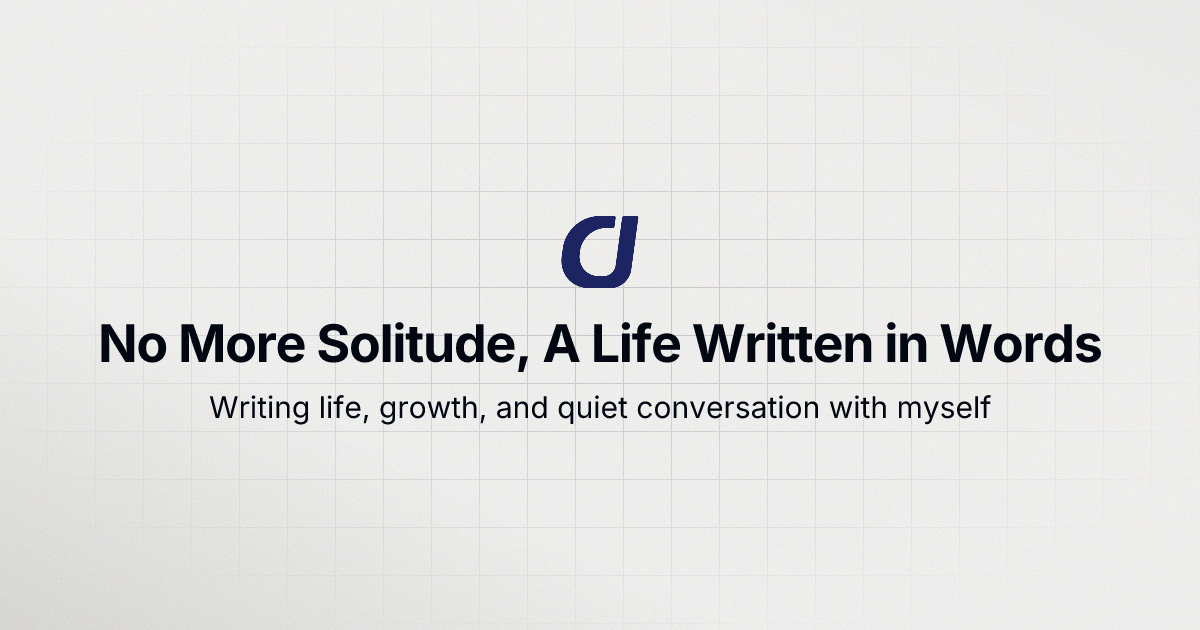
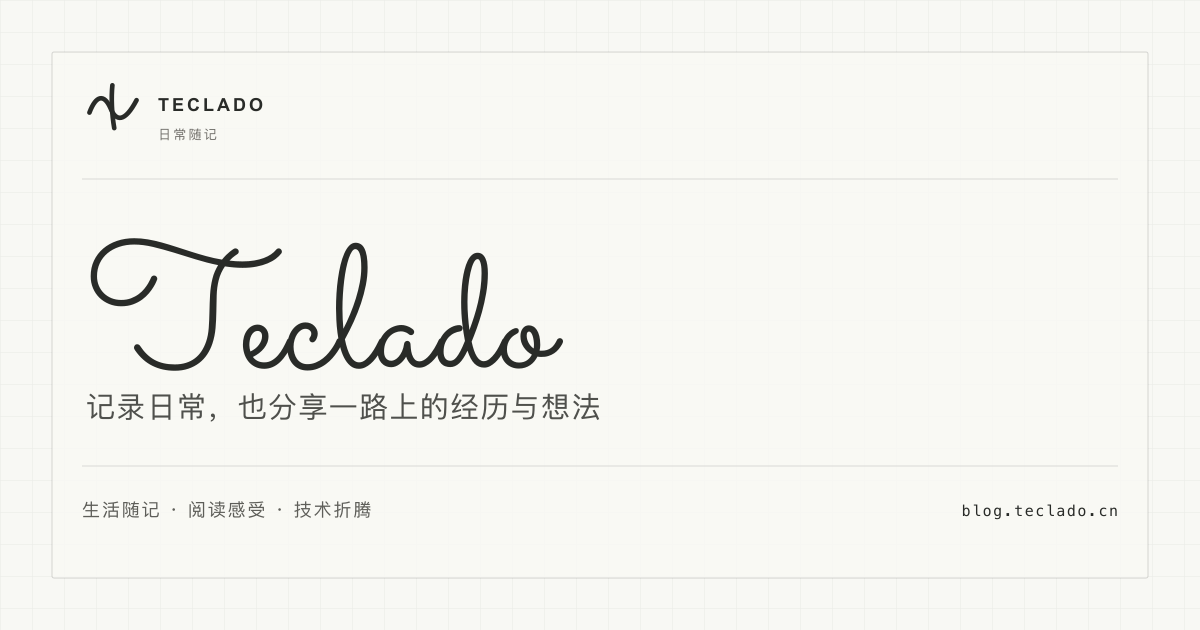
feat: 完成站点品牌与 SEO 收尾

diff --git a/src/.config/user.ts b/src/.config/user.ts
@@ -3,9 +3,9 @@ import type { UserConfig } from '~/types'
 export const userConfig: Partial<UserConfig> = {
   site: {
     title: 'Teclado',
-    subtitle: 'Digital Garden',
+    subtitle: '日常随记',
     author: 'Teclado',
-    description: '写文字、记生活，在网络的角落里留下成长与经历的痕迹——不再只是孤独，而是与自己对话。',
+    description: 'Teclado 的个人博客，用来记录日常生活、阅读感受和偶尔的技术折腾，也分享一路上的经历与想法。',
     website: 'https://blog.teclado.cn',
     pageSize: 5,
     socialLinks: [

diff --git a/src/i18n.ts b/src/i18n.ts
@@ -43,7 +43,7 @@ export const LANGUAGES = {
     select: '选择',
     open: '打开',
     close: '关闭',
-    journey_intro: '把重要的事记在这里，把日子慢慢走成故事。',
+    journey_intro: '记录 Teclado 在生活、项目、学习与博客建设中的重要节点。',
     journey_empty: '还没有记录，稍后补充。',
     journey_filter_all: '全部',
     journey_filter_life: '生活',

diff --git a/README.md b/README.md
@@ -1,8 +1,6 @@
-# 孤独终洁
+# Teclado
 
-> No More Solitude
->
-> 写文字、记生活，在网络的角落里留下成长与经历的痕迹——不再只是孤独，而是与自己对话。
+> 记录日常生活、阅读感受和偶尔的技术折腾，也分享一路上的经历与想法。
 
 这是我（Teclado）的个人博客，使用 [Astro](https://astro.build/) 构建，主题基于 [astro-theme-typography](https://github.com/moeyua/astro-theme-typography)。
 
@@ -32,8 +30,8 @@ pnpm preview
 ---
 title: 标题
 pubDate: 2026-06-24
-categories: ["essay"]
-description: "描述"
+categories: ['随笔']
+description: '描述'
 ---
 ```
 
